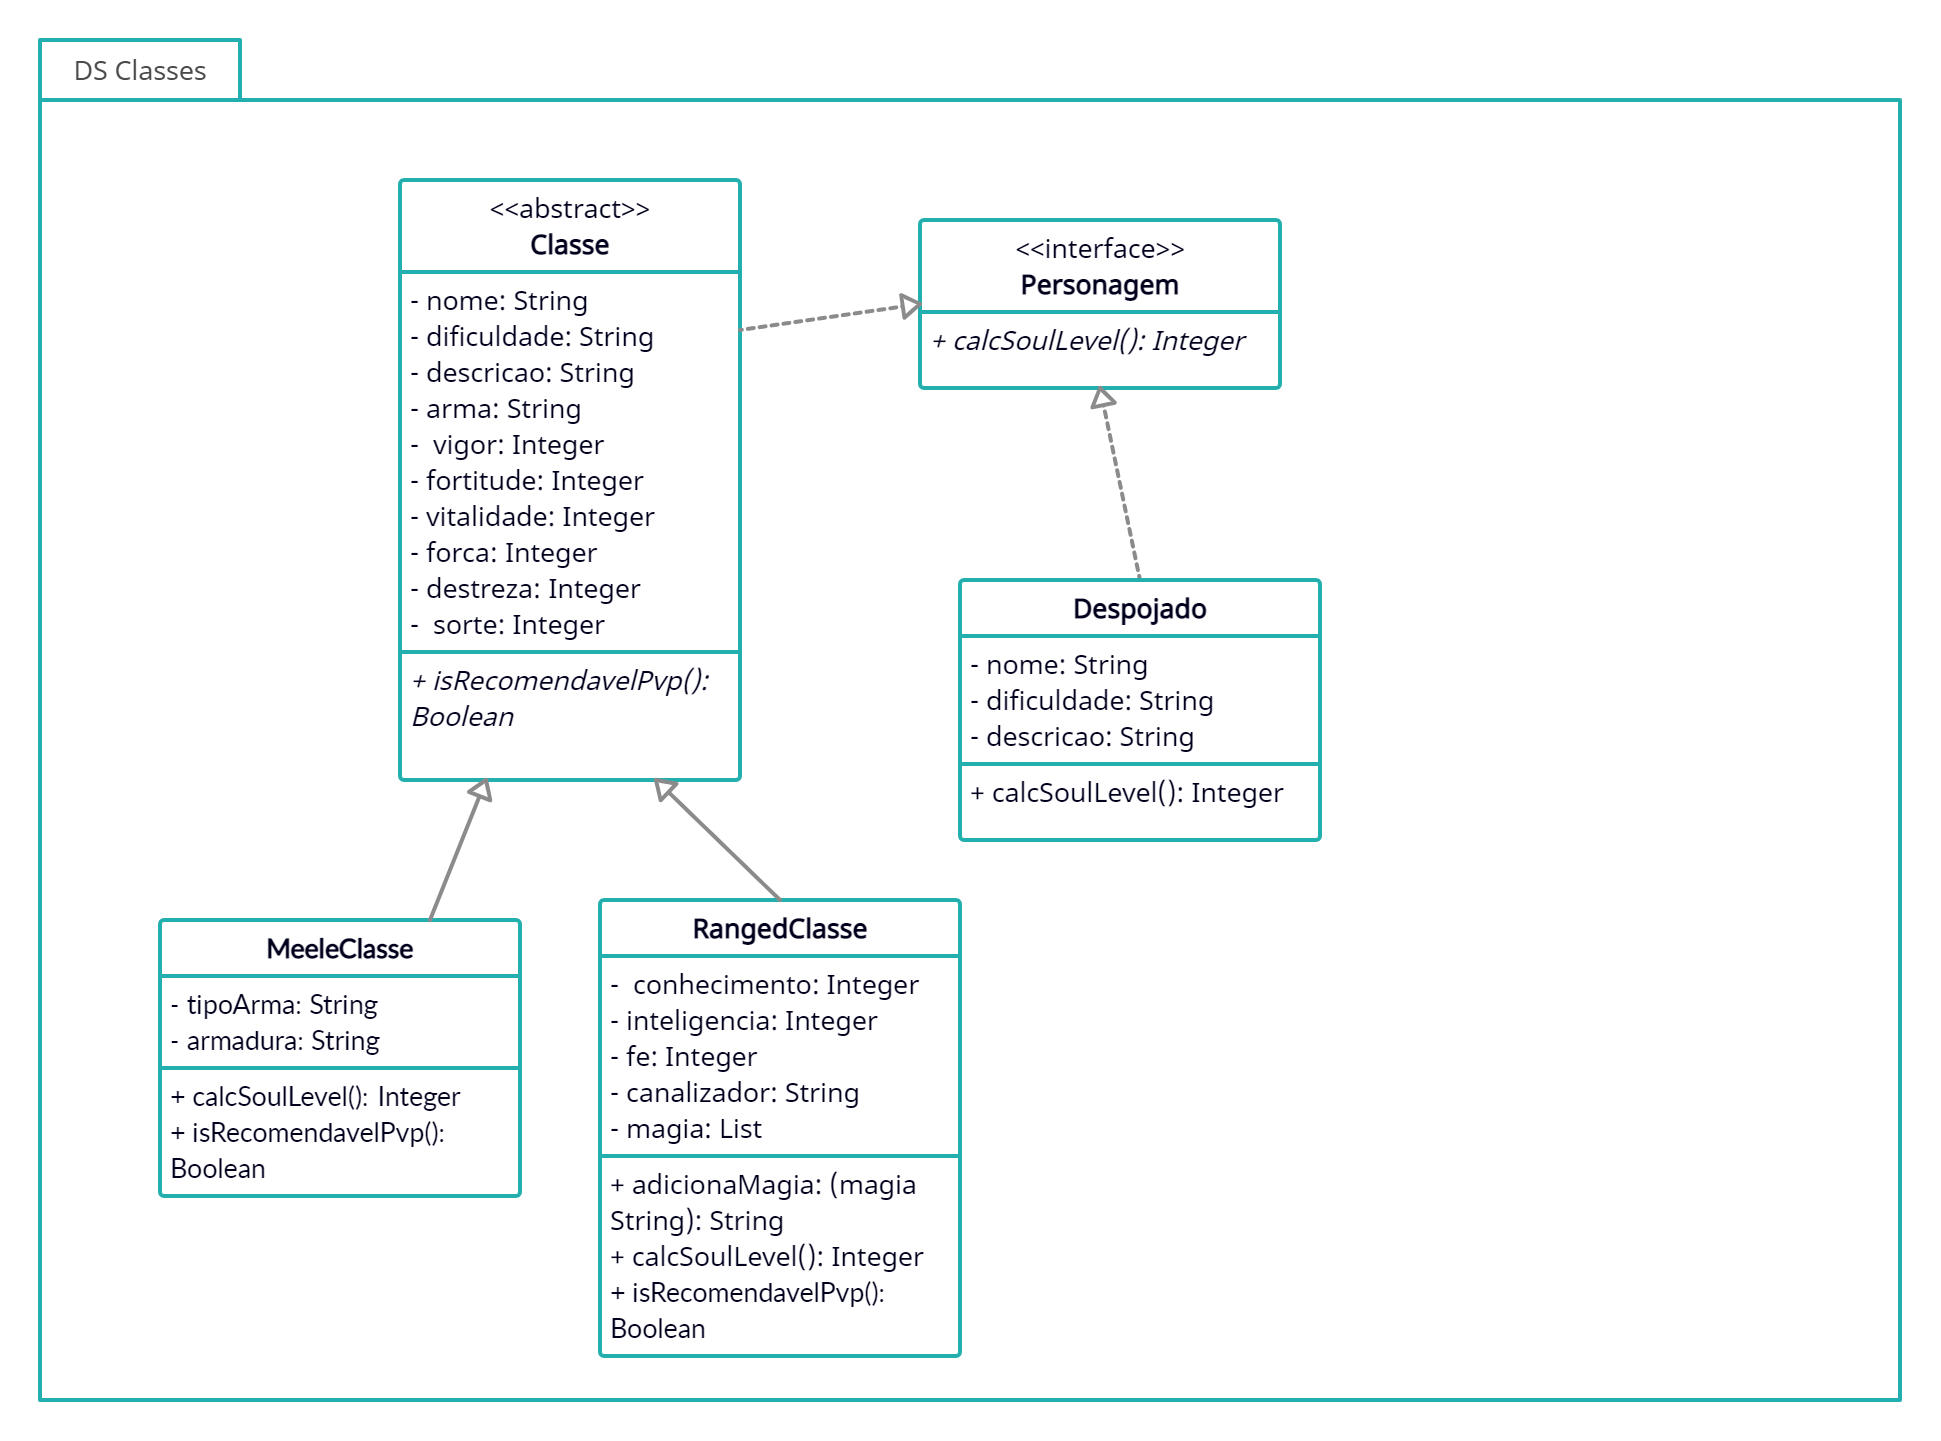
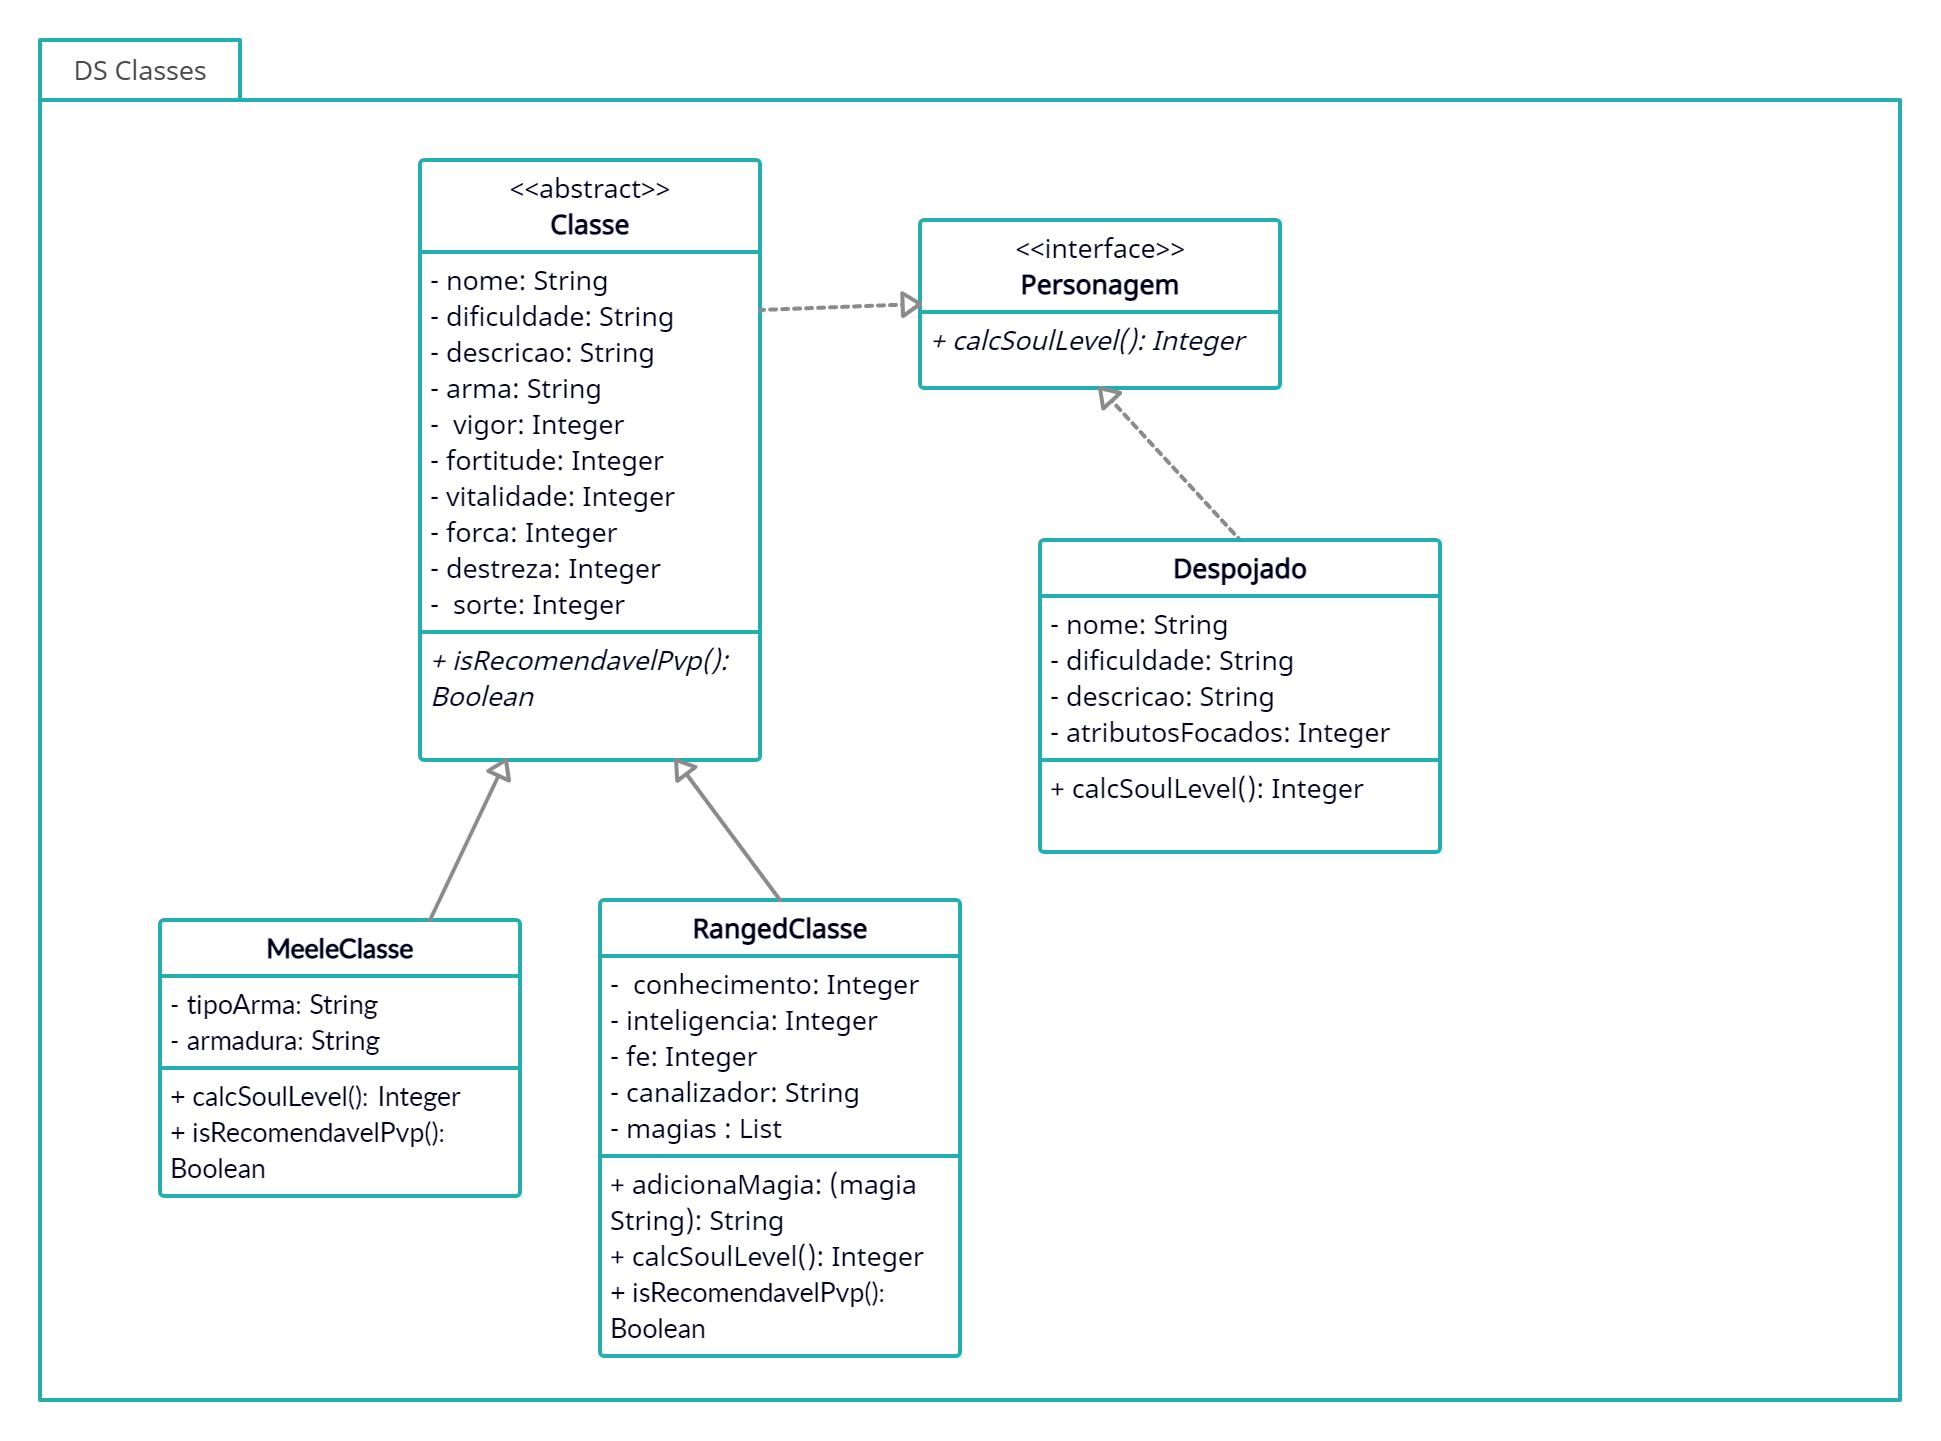
Criação das classes no java + modificação do diagrama de classe

diff --git a/dark-souls/src/main/java/br/com/bandtec/darksouls/Classe.java b/dark-souls/src/main/java/br/com/bandtec/darksouls/Classe.java
@@ -1,0 +1,78 @@
+package br.com.bandtec.darksouls;
+
+public abstract class Classe implements Personagem {
+    private String nome;
+    private String dificuldade;
+    private String descricao;
+    private String arma;
+    private Integer vigor;
+    private Integer fortitude;
+    private Integer vitalidade;
+    private Integer forca;
+    private Integer destreza;
+    private Integer sorte;
+
+    public Classe(String nome,
+                  String dificuldade,
+                  String descricao,
+                  String arma,
+                  Integer vigor,
+                  Integer fortitude,
+                  Integer vitalidade,
+                  Integer forca,
+                  Integer destreza,
+                  Integer sorte) {
+        this.nome = nome;
+        this.dificuldade = dificuldade;
+        this.descricao = descricao;
+        this.arma = arma;
+        this.vigor = vigor;
+        this.fortitude = fortitude;
+        this.vitalidade = vitalidade;
+        this.forca = forca;
+        this.destreza = destreza;
+        this.sorte = sorte;
+    }
+
+    public abstract Boolean isRecomendavelPvp();
+
+    public String getNome() {
+        return nome;
+    }
+
+    public String getDificuldade() {
+        return dificuldade;
+    }
+
+    public String getDescricao() {
+        return descricao;
+    }
+
+    public String getArma() {
+        return arma;
+    }
+
+    public Integer getVigor() {
+        return vigor;
+    }
+
+    public Integer getFortitude() {
+        return fortitude;
+    }
+
+    public Integer getVitalidade() {
+        return vitalidade;
+    }
+
+    public Integer getForca() {
+        return forca;
+    }
+
+    public Integer getDestreza() {
+        return destreza;
+    }
+
+    public Integer getSorte() {
+        return sorte;
+    }
+}

diff --git a/dark-souls/src/main/java/br/com/bandtec/darksouls/RangedClasse.java b/dark-souls/src/main/java/br/com/bandtec/darksouls/RangedClasse.java
@@ -1,0 +1,58 @@
+package br.com.bandtec.darksouls;
+
+import java.util.ArrayList;
+import java.util.List;
+
+public class RangedClasse extends Classe{
+    private Integer conhecimento;
+    private Integer inteligencia;
+    private Integer fe;
+    private String canalizador;
+    private List<String> magias;
+
+    public RangedClasse(String nome, String dificuldade, String descricao, String arma,
+                        Integer vigor, Integer fortitude, Integer vitalidade, Integer forca,
+                        Integer destreza, Integer sorte, Integer conhecimento, Integer inteligencia,
+                        Integer fe, String canalizador) {
+        super(nome, dificuldade, descricao, arma, vigor, fortitude, vitalidade, forca, destreza, sorte);
+        this.conhecimento = conhecimento;
+        this.inteligencia = inteligencia;
+        this.fe = fe;
+        this.canalizador = canalizador;
+        this.magias = new ArrayList<>();
+    }
+
+    @Override
+    public Boolean isRecomendavelPvp() {
+        Boolean recomendavel = true;
+        if(getDificuldade().equals("iniciante") || getNome().equals("piromante")){
+            recomendavel = false;
+        }
+        return recomendavel;
+    }
+
+    @Override
+    public Integer calcSoulLevel() {
+        return 8 + getVigor() + getFortitude() + getVitalidade() + getForca() + getDestreza() + getSorte();
+    }
+
+    public Integer getConhecimento() {
+        return conhecimento;
+    }
+
+    public Integer getInteligencia() {
+        return inteligencia;
+    }
+
+    public Integer getFe() {
+        return fe;
+    }
+
+    public String getCanalizador() {
+        return canalizador;
+    }
+
+    public List<String> getMagias() {
+        return magias;
+    }
+}

diff --git a/dark-souls/src/main/java/br/com/bandtec/darksouls/MeeleClasse.java b/dark-souls/src/main/java/br/com/bandtec/darksouls/MeeleClasse.java
@@ -1,0 +1,36 @@
+package br.com.bandtec.darksouls;
+
+public class MeeleClasse extends Classe{
+    private String tipoArma;
+    private String armadura;
+
+    public MeeleClasse(String nome, String dificuldade, String descricao, String arma,
+                       Integer vigor, Integer fortitude, Integer vitalidade, Integer forca,
+                       Integer destreza, Integer sorte, String tipoArma, String armadura) {
+        super(nome, dificuldade, descricao, arma, vigor, fortitude, vitalidade, forca, destreza, sorte);
+        this.tipoArma = tipoArma;
+        this.armadura = armadura;
+    }
+
+    @Override
+    public Boolean isRecomendavelPvp() {
+        Boolean recomendavel = true;
+        if (getDificuldade().equals("iniciante")){
+            recomendavel = false;
+        }
+        return recomendavel;
+    }
+
+    @Override
+    public Integer calcSoulLevel() {
+        return 10 + getVigor() + getFortitude() + getVitalidade() + getForca() + getDestreza() + getSorte();
+    }
+
+    public String getTipoArma() {
+        return tipoArma;
+    }
+
+    public String getArmadura() {
+        return armadura;
+    }
+}

diff --git a/dark-souls/src/main/java/br/com/bandtec/darksouls/Despojado.java b/dark-souls/src/main/java/br/com/bandtec/darksouls/Despojado.java
@@ -1,0 +1,20 @@
+package br.com.bandtec.darksouls;
+
+public class Despojado implements Personagem{
+    private String nome;
+    private String dificuldade;
+    private String descricao;
+    private Integer atributosFocados;
+
+    public Despojado(String nome, String dificuldade, String descricao, Integer atributosFocados) {
+        this.nome = nome;
+        this.dificuldade = dificuldade;
+        this.descricao = descricao;
+        this.atributosFocados = atributosFocados;
+    }
+
+    @Override
+    public Integer calcSoulLevel() {
+        return 5 + atributosFocados;
+    }
+}

diff --git a/dark-souls/src/main/java/br/com/bandtec/darksouls/Personagem.java b/dark-souls/src/main/java/br/com/bandtec/darksouls/Personagem.java
@@ -1,0 +1,5 @@
+package br.com.bandtec.darksouls;
+
+public interface Personagem {
+    public Integer calcSoulLevel();
+}
